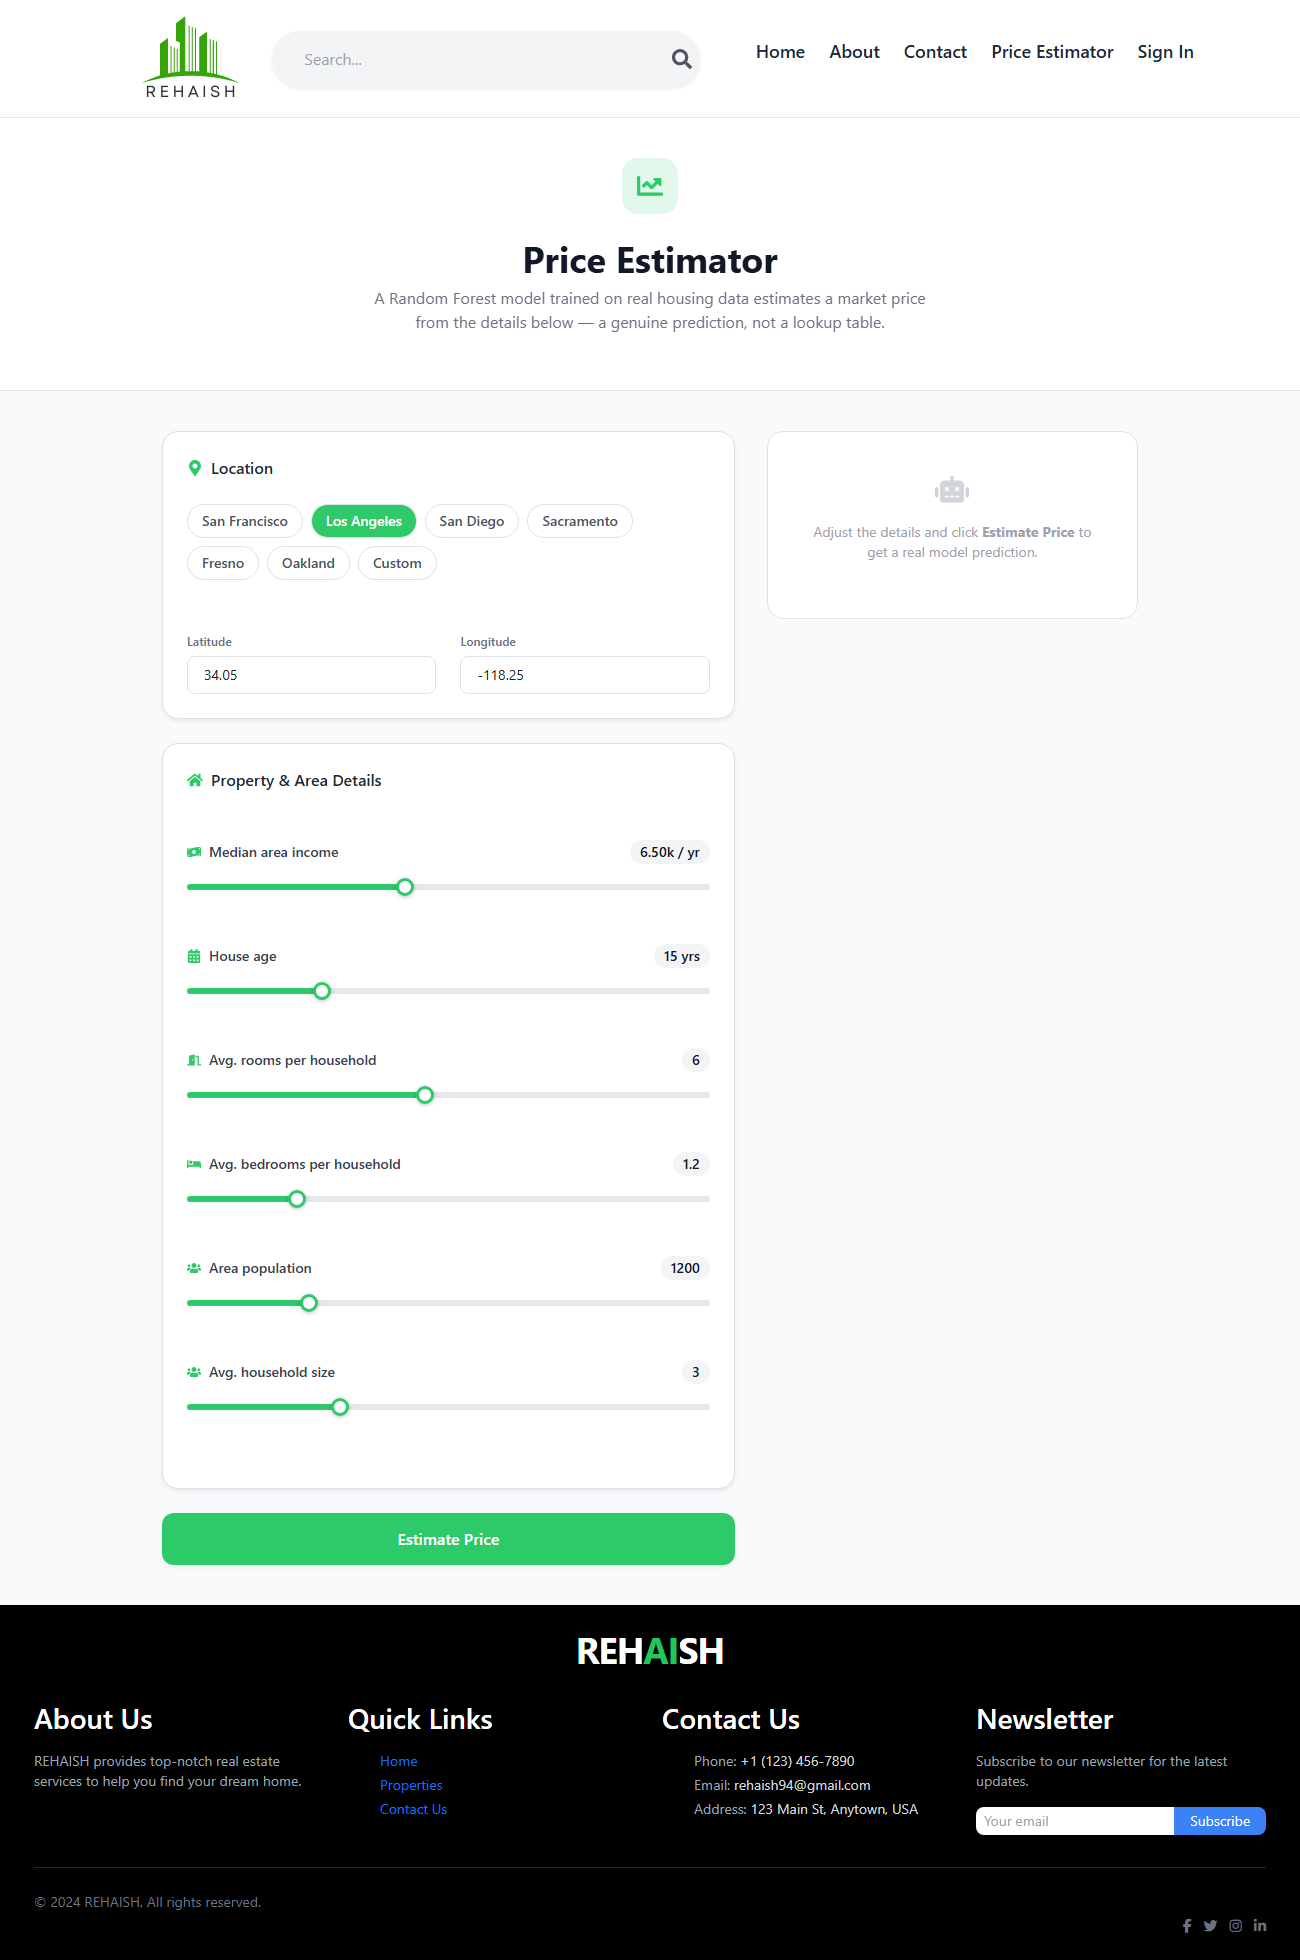
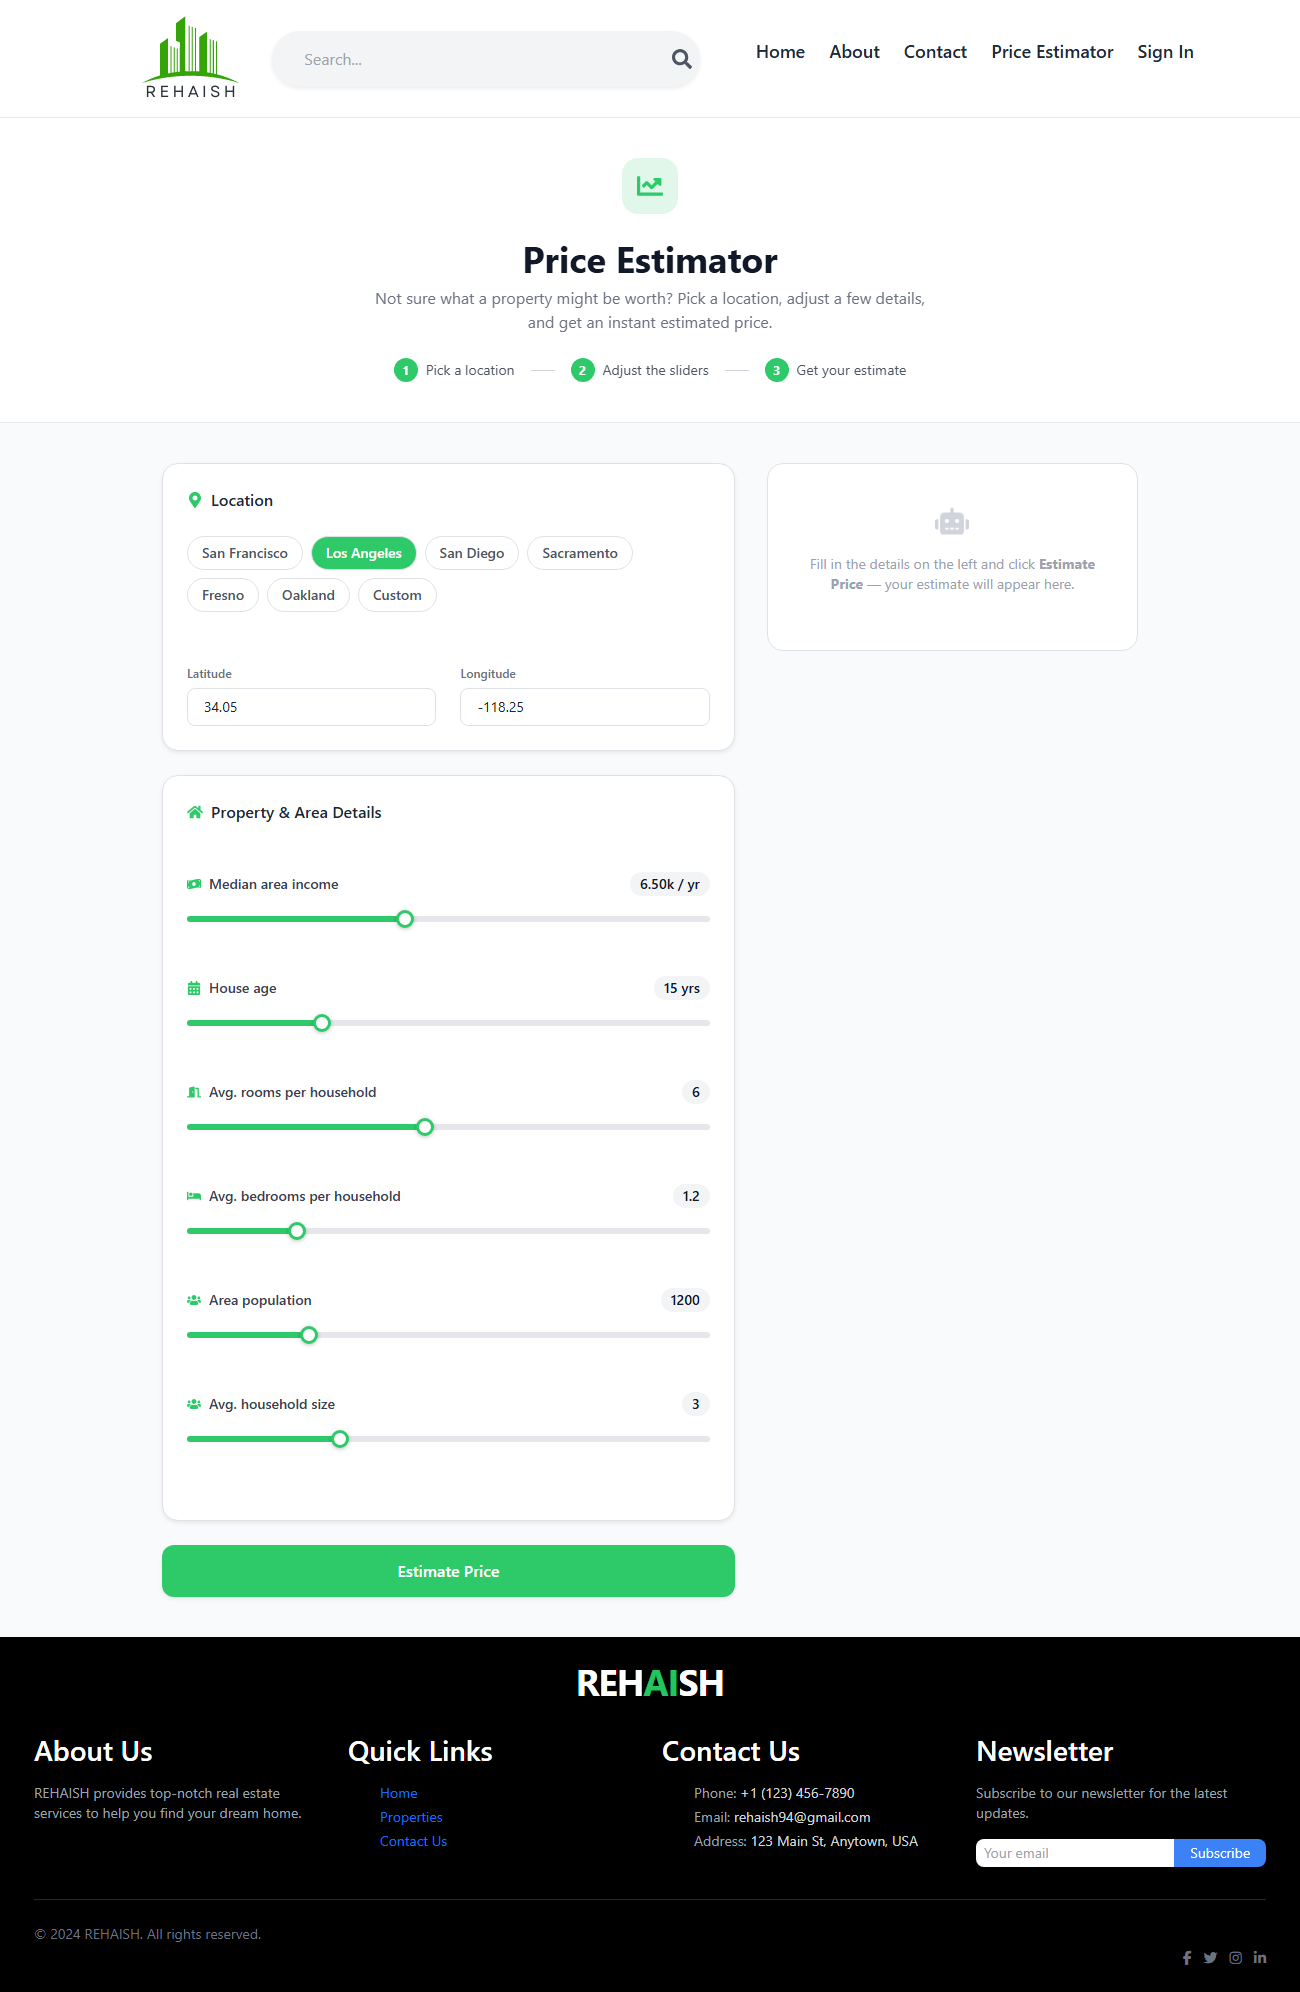
polish: user-friendly copy — 3-step guide, plain-language result, tech details tucked away
The original copy ("Random Forest model...") was written for a
portfolio audience, not the actual site visitor. Replaced with a
3-step guide and plain-language result text; model/dataset info is
now behind a collapsible "Technical details" toggle instead of
being the headline.

diff --git a/client/src/pages/PriceEstimator.jsx b/client/src/pages/PriceEstimator.jsx
@@ -145,10 +145,32 @@ export default function PriceEstimator() {
           </div>
           <h1 className='text-3xl md:text-4xl font-bold text-gray-900'>Price Estimator</h1>
           <p className='text-gray-500 mt-2 max-w-xl mx-auto'>
-            A Random Forest model trained on real housing data estimates a
-            market price from the details below — a genuine prediction, not
-            a lookup table.
+            Not sure what a property might be worth? Pick a location,
+            adjust a few details, and get an instant estimated price.
           </p>
+
+          <div className='flex flex-col sm:flex-row items-center justify-center gap-3 sm:gap-6 mt-6 text-sm text-gray-600'>
+            <span className='flex items-center gap-2'>
+              <span className='w-6 h-6 rounded-full bg-[#2eca6a] text-white text-xs font-bold flex items-center justify-center shrink-0'>
+                1
+              </span>
+              Pick a location
+            </span>
+            <span className='hidden sm:block w-6 h-px bg-gray-300' />
+            <span className='flex items-center gap-2'>
+              <span className='w-6 h-6 rounded-full bg-[#2eca6a] text-white text-xs font-bold flex items-center justify-center shrink-0'>
+                2
+              </span>
+              Adjust the sliders
+            </span>
+            <span className='hidden sm:block w-6 h-px bg-gray-300' />
+            <span className='flex items-center gap-2'>
+              <span className='w-6 h-6 rounded-full bg-[#2eca6a] text-white text-xs font-bold flex items-center justify-center shrink-0'>
+                3
+              </span>
+              Get your estimate
+            </span>
+          </div>
         </div>
       </div>
 
@@ -304,8 +326,8 @@ export default function PriceEstimator() {
               <div className='bg-white border border-dashed border-gray-300 rounded-2xl p-10 text-center text-gray-400'>
                 <FaRobot size={34} className='mx-auto mb-3 text-gray-300' />
                 <p className='text-sm'>
-                  Adjust the details and click <b>Estimate Price</b> to get a
-                  real model prediction.
+                  Fill in the details on the left and click{' '}
+                  <b>Estimate Price</b> — your estimate will appear here.
                 </p>
               </div>
             )}
@@ -329,10 +351,20 @@ export default function PriceEstimator() {
                 </p>
                 <div className='mt-5 pt-5 border-t border-[#2eca6a]/25 text-xs text-gray-500 space-y-1'>
                   <p className='flex items-center justify-center gap-1.5'>
-                    <FaRobot className='text-[#2eca6a]' /> {result.model}
+                    <FaRobot className='text-[#2eca6a]' /> Estimate from a
+                    machine learning model trained on real housing data
                   </p>
-                  <p>{result.dataset}</p>
-                  <p className='text-gray-400'>~$34k average error (MAE) on held-out test data</p>
+                  <p className='text-gray-400'>
+                    Typically within about $34,000 of the actual price
+                  </p>
+                  <details className='mt-2'>
+                    <summary className='cursor-pointer text-gray-400 hover:text-gray-600 select-none'>
+                      Technical details
+                    </summary>
+                    <p className='mt-1 text-gray-400'>
+                      {result.model} · {result.dataset}
+                    </p>
+                  </details>
                 </div>
               </div>
             )}
